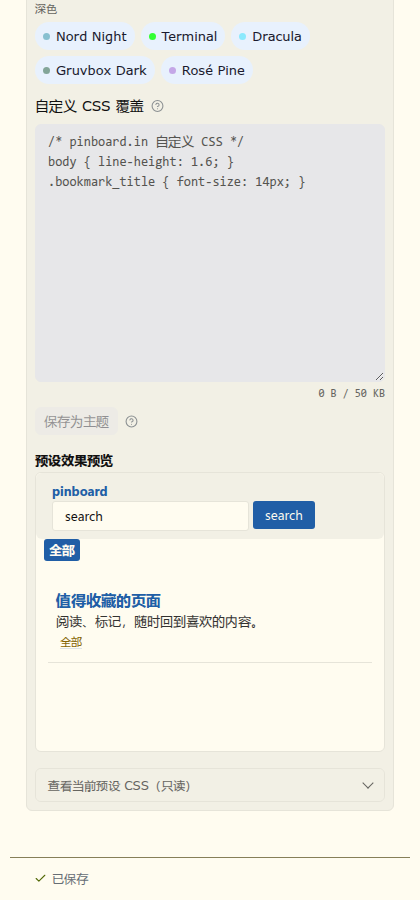
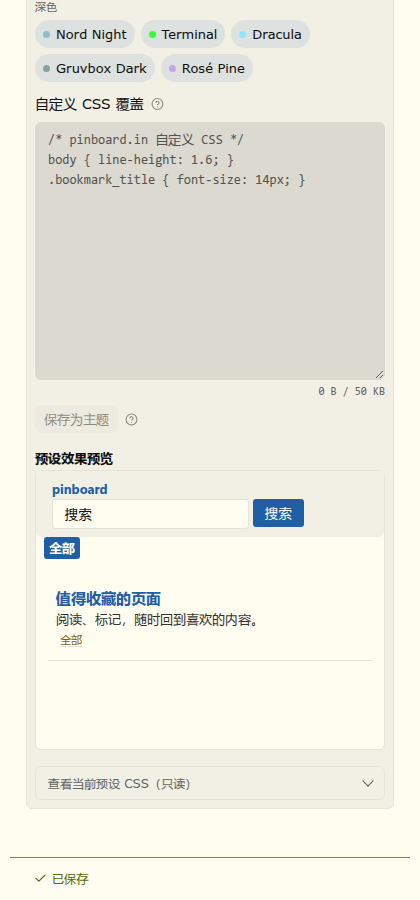
fix(l10n): localize theme preview search controls

diff --git a/options.js b/options.js
@@ -3700,7 +3700,7 @@ document.addEventListener("DOMContentLoaded", async () => {
       body { margin:0; font-family:"Segoe UI",Arial,"PingFang SC","Microsoft YaHei","Hiragino Sans","Noto Sans CJK SC","Noto Sans SC","微软雅黑","Source Han Sans SC","WenQuanYi Micro Hei",sans-serif; }
       button,input {font-family:inherit} #banner,#sub_banner,.user_navbar,#main_column {padding:8px 12px} #main_column {margin:0;width:auto;max-width:none} #banner_searchbox {display:flex;gap:4px;float:none} #banner_searchbox input {min-width:0;max-width:100%} .bookmark {margin:8px 0} .tag {margin-right:8px}
     </style><style>${css}</style><style>:root { --pinboard-font-family: ${previewFamily} !important; }</style></head><body id="pinboard">
-      <div id="banner"><span id="pinboard_name"><a>pinboard</a></span><span id="banner_searchbox"><input type="text" readonly value="${esc(t("search"))}" aria-label="${esc(t("search"))}"><span class="search_button"><input type="button" value="${esc(t("search"))}"></span></span></div>
+      <div id="banner"><span id="pinboard_name"><a>pinboard</a></span><span id="banner_searchbox"><input type="text" readonly value="${esc(t("themePreviewSearch"))}" aria-label="${esc(t("themePreviewSearch"))}"><span class="search_button"><input type="button" value="${esc(t("themePreviewSearch"))}"></span></span></div>
       <div class="user_navbar"><div id="bmarks_page_nav"><a class="filter selected">${esc(t("libraryFilterAll"))}</a></div></div>
       <div id="main_column"><div class="bookmark"><div class="display"><a class="bookmark_title">${esc(t("themePreviewSampleTitle"))}</a><div class="description">${esc(t("themePreviewSampleDescription"))}</div><div class="tags"><a class="tag">${esc(t("libraryFilterAll"))}</a></div></div></div></div>
     </body></html>`;

diff --git a/docs/ui-ux/2026-10-07/README.md b/docs/ui-ux/2026-10-07/README.md
@@ -40,12 +40,12 @@
 
 | 批次 | 范围 | 状态 | 验证/提交 |
 |---|---|---|---|
-| 0 | 保存调研、证据及验收方案 | 已保存 | 本文与 evidence/；提交见 Git 历史 |
-| 1 | 01 草稿保护；02 保存状态与重试 | 01、02 已验收，分项本地提交 | 01：21项草稿 + 178项保存 + 55项后台 + 233项九语言通过；真实工具栏2图，URL/标题/备注/标签/待提交标签/私密及稍后读均保留、0错误；53套HTML共6113断言与UI契约通过；原草稿提交 `07d2477b`；独立修正 `06056962`（38草稿/179保存/52AI-SW/98标签通过）；02：450持久化/41列表框、72真实失败与键盘几何、6380主题渲染通过，提交见Git历史 |
-| 2 | 03 翻译退避；04 窄窗；05 Ask；06 语义 | 已验收 | 992阅读器回归；九语言全部设置面板窄窗、9档Ask宽度与popup axe通过；提交见Git历史 |
-| 3 | 07 笔记编辑；08 清筛选 | 已验收 | 267笔记/334生词回归通过；真实journey12图、0错误；与批次2合并检查点 |
-| 4 | 09 同步范围；10 阅读器层级；11 AI 配置 | 已验收 | 992阅读器、18配置生命周期、184弹窗保存回归通过；真实discovery4图、0错误；独立审查闭合并发及owner问题；提交见Git历史 |
-| 5 | 12 主题预览；完整验收 | 全部12项已验收 | 11个可选预设×明暗、九语言样例、OS跟随、CSP/sandbox通过；54套6185 HTML检查、15主题6395渲染检查及全部verify门分阶段通过 |
+| 0 | 保存调研、证据及验收方案 | 已保存 | 本文与 evidence/；`7476e667` |
+| 1 | 01 草稿保护；02 保存状态与重试 | 01、02 已验收，分项本地提交 | 01：21项草稿 + 178项保存 + 55项后台 + 233项九语言通过；真实工具栏2图，URL/标题/备注/标签/待提交标签/私密及稍后读均保留、0错误；53套HTML共6113断言与UI契约通过；原草稿提交 `07d2477b`；独立修正 `06056962`（38草稿/179保存/52AI-SW/98标签通过）；02：450持久化/41列表框、72真实失败与键盘几何、6380主题渲染通过，`1ea601ce` |
+| 2 | 03 翻译退避；04 窄窗；05 Ask；06 语义 | 已验收 | 992阅读器回归；九语言全部设置面板窄窗、9档Ask宽度与popup axe通过；`fc421195` |
+| 3 | 07 笔记编辑；08 清筛选 | 已验收 | 真实journey12图、0错误；`fc421195`；独立焦点/身份修正`0d948b37`、`dc597d37`，最终273笔记/334生词通过 |
+| 4 | 09 同步范围；10 阅读器层级；11 AI 配置 | 已验收 | 992阅读器、18配置生命周期、184弹窗保存回归通过；真实discovery4图、0错误；独立审查闭合并发及owner问题；`c0408f29` |
+| 5 | 12 主题预览；完整验收 | 全部12项已验收 | 主功能`c0408f29`，搜索本地化另作fix(l10n)提交；11个可选预设×明暗×320/420px、九语言样例、OS跟随、CSP/sandbox通过；54套6185 HTML检查、15主题6395渲染检查及全部verify门分阶段通过 |
 
 ## 证据、标准与限制
 
@@ -118,11 +118,15 @@
 
 人工看图后将示例description/tags放入主题实际消费的display容器，标题、描述、标签逐行排列；全预设不重叠断言通过。最终4图与报告归档在evidence/discovery-acceptance.json及同目录图片。
 
+交付复核发现搜索控件使用的`t("search")`没有catalog键，补充`themePreviewSearch`九语言文案及输入值、按钮值、aria-label实际断言；保留主功能提交，修正另作本地fix(l10n)提交。233项i18n检查通过；完整discovery补充全部预设×明暗×320/420px和九语言×320/420px检查，4图、0 driver/page/console错误、0 AI请求。最新明暗截图已人工复核，并替换归档证据；编辑期UI门、ESLint、diff检查通过。
+
 ### 最终完整验收
 
 全部12项完成。54套HTML共6185项检查通过；原生popup重开、两种浏览器划词关闭机制、保存失败/连续重试、真实HTTP429停止、九语言窄窗、笔记完整journey、配置发现与本地预览均通过。最新429停止44ms、7次请求后无继续派发；11个可选预设×两模式得到14种背景/正文色对。15主题四分片1712+1699+1710+1274=6395项渲染检查，0 FAIL/SKIP/WARN/SETUP；184帮助光栅探针、所有静态/文档/商店/主题工厂门通过。CI字体隔离环境运行，未更改baseline或放宽阈值。
 
 verify按原阶段分段完成：首次HTML门的三条旧Popup切片夹具缺hasAIKey依赖，补依赖及五类可见性回归后184PASS；原阅读器seed缺非秘密account、新未配置UI隐藏了未配置夹具的AI chips，分别补符合生产形状的owner与已配置provider后重跑受影响阶段。每个最终要求的检查均执行并通过，未跳过门禁。最后示例层级修改另跑完整discovery矩阵通过。汇总见evidence/final-acceptance.json；原始日志保留在本地ignored的.qa-scan/ux-final-verify*.log。
+
+全量验收后仅补主题搜索本地化及对应QA断言；该修正单独完成233项i18n、完整discovery窄窗复验与静态检查，记录在final-acceptance.json的post_verify字段。上述全量数字对应此前执行的完整阶段，不表示这次文字修正后重复执行了全部54套或主题渲染矩阵。
 
 本轮只创建本地commit，不push、不发版、不升级版本。Windows高DPI冷启动、人工屏读器及真实第三方服务端到端仍属外部验证范围；本轮未声称这些已测通过。
 
